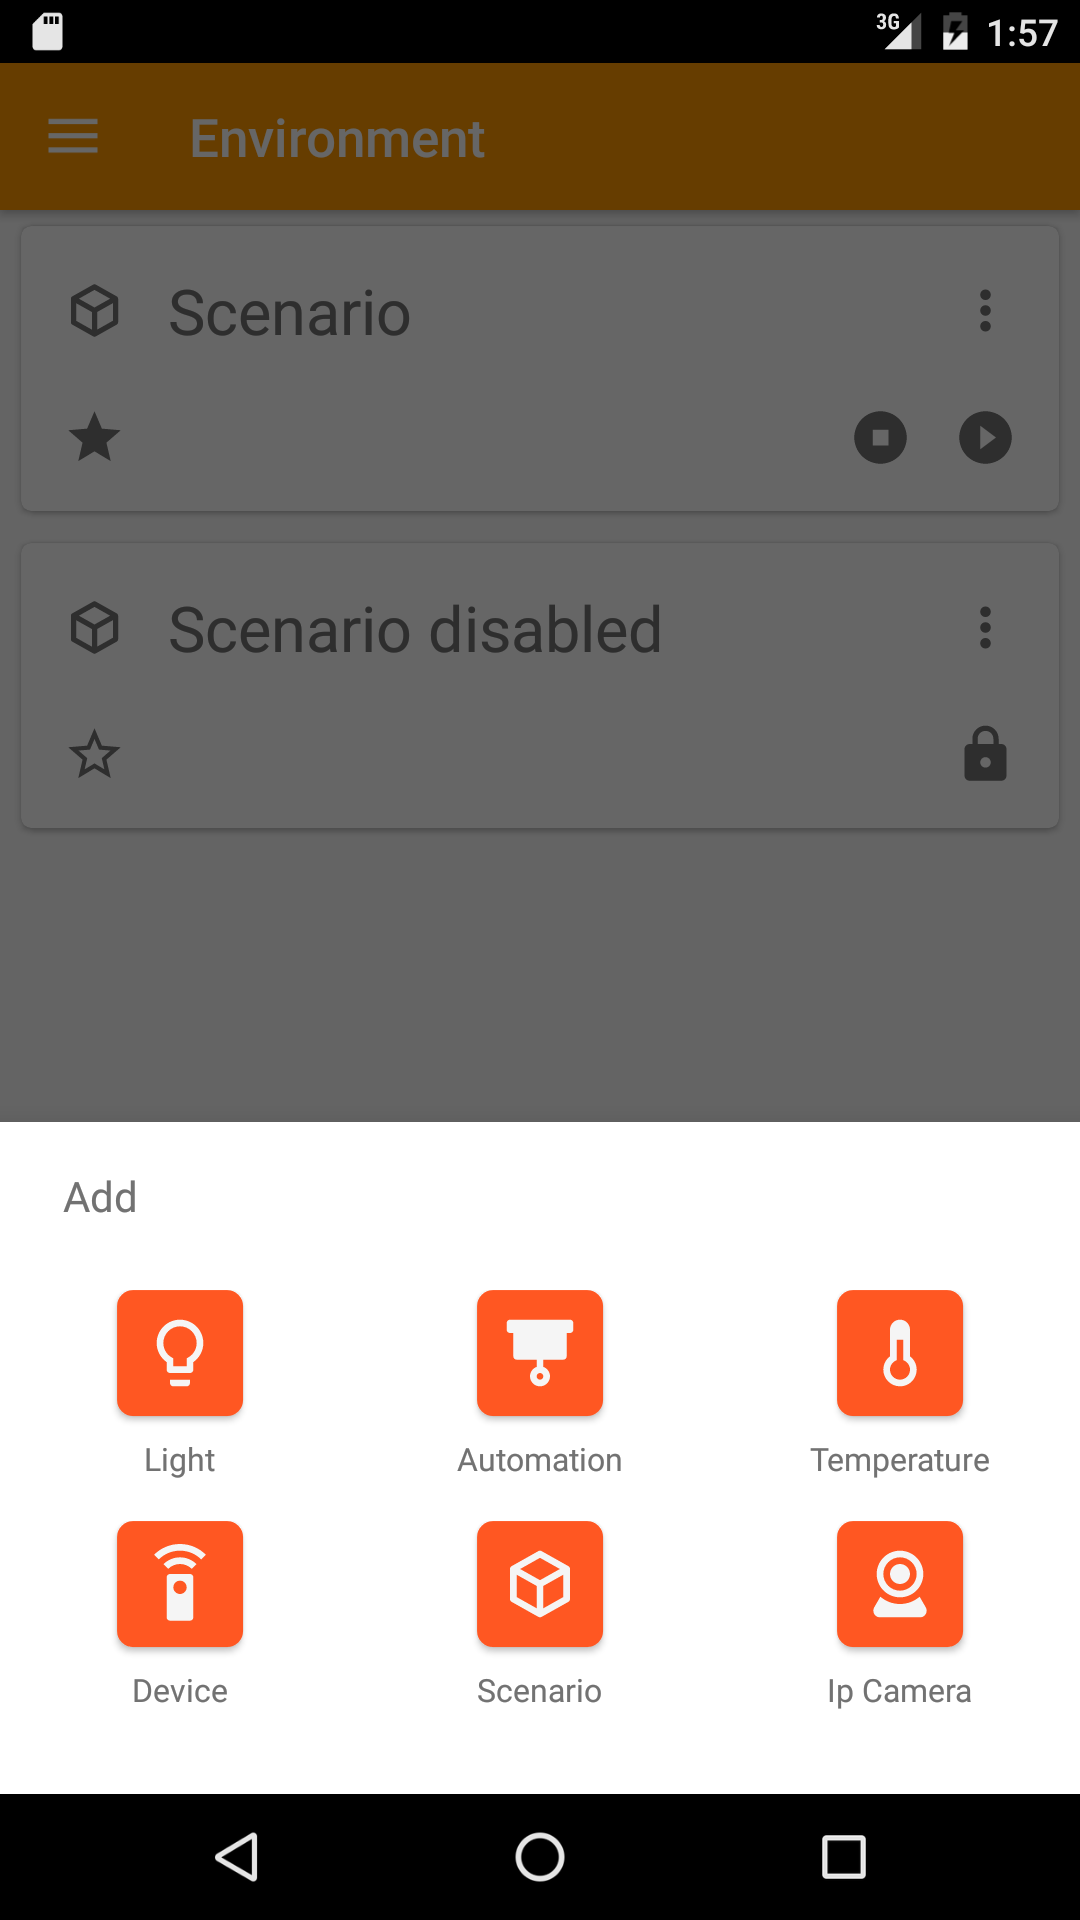
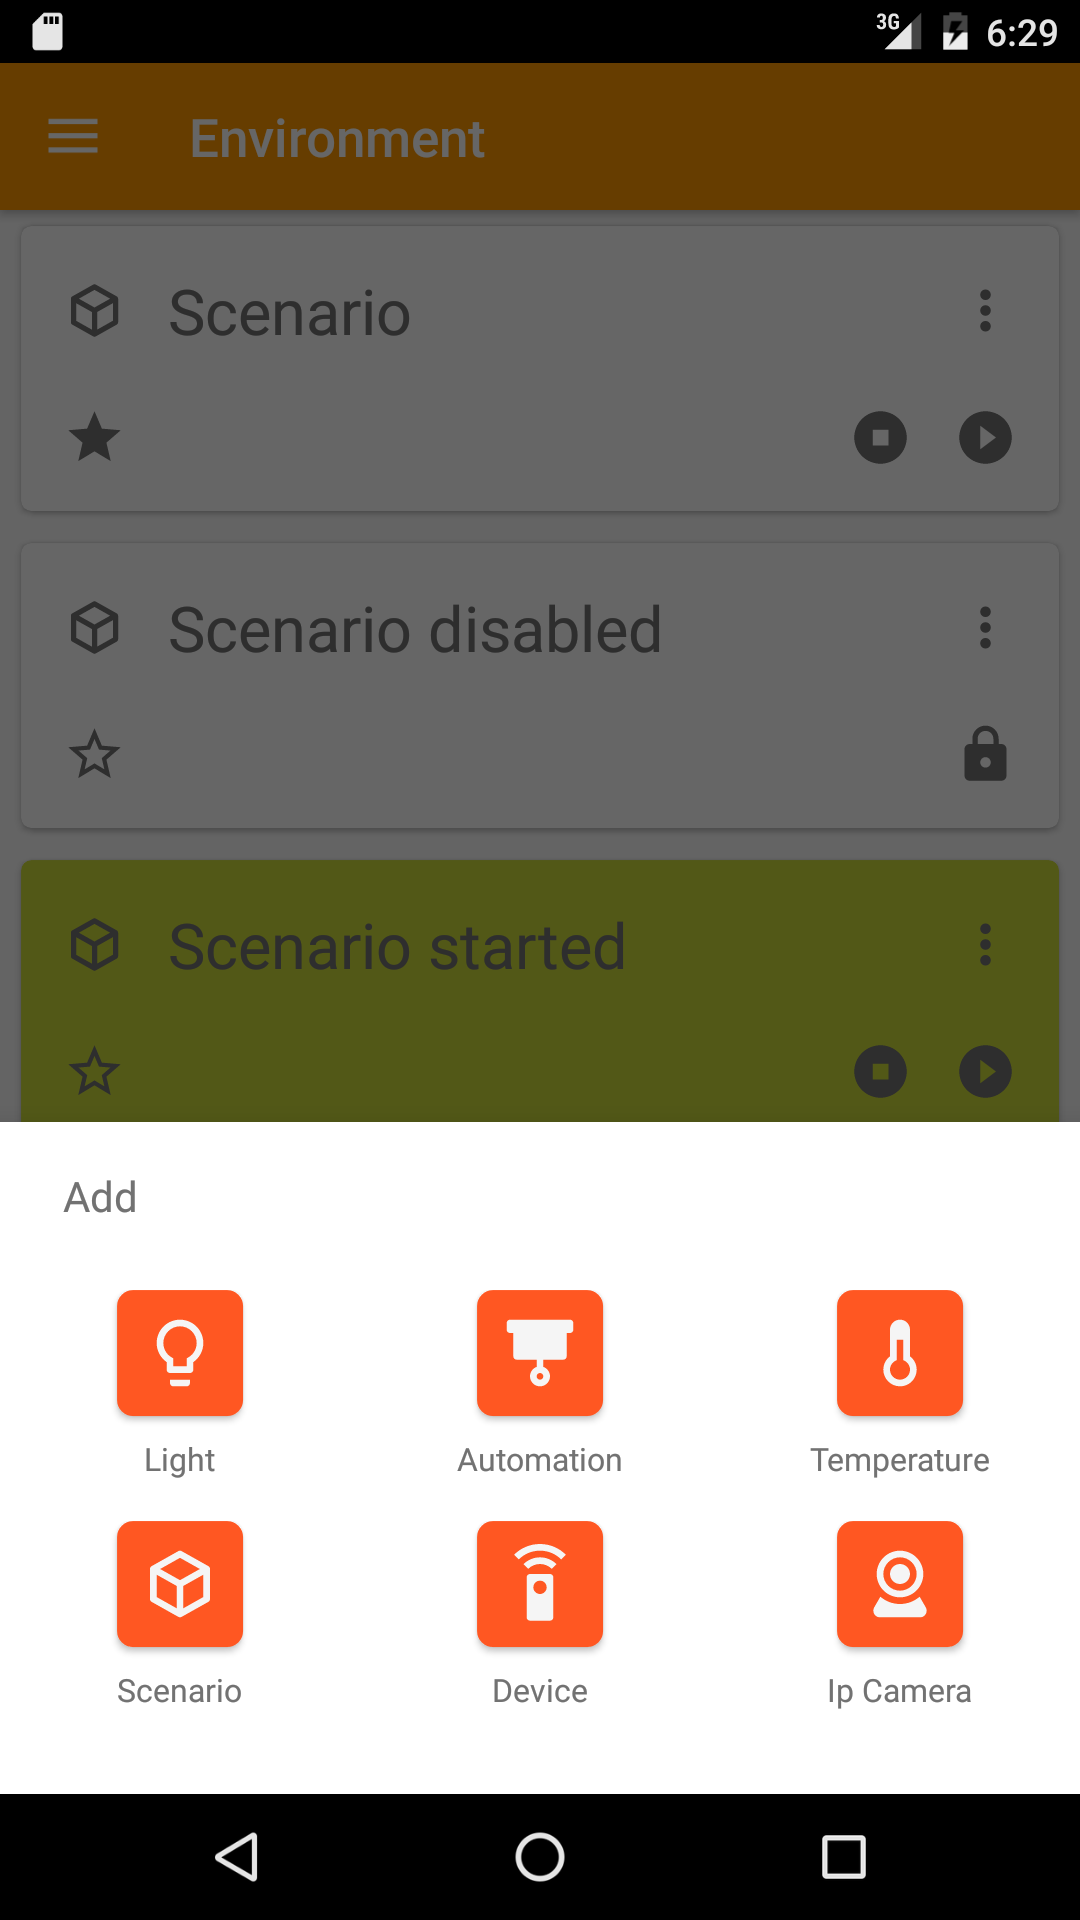
update menu order

diff --git a/app/src/test/java/com.github.openwebnet/view/MainBottomSheetDialogFragmentTest.java b/app/src/test/java/com.github.openwebnet/view/MainBottomSheetDialogFragmentTest.java
@@ -151,15 +151,15 @@ public class MainBottomSheetDialogFragmentTest {
     }
 
     @Test
-    public void onItemClick_shouldStartDeviceActivity() {
+    public void onItemClick_shouldStartScenarioActivity() {
         setupFragment();
-        expectStartActivity(3, R.string.activity_device, DeviceActivity.class);
+        expectStartActivity(3, R.string.activity_scenario, ScenarioActivity.class);
     }
 
     @Test
-    public void onItemClick_shouldStartScenarioActivity() {
+    public void onItemClick_shouldStartDeviceActivity() {
         setupFragment();
-        expectStartActivity(4, R.string.activity_scenario, ScenarioActivity.class);
+        expectStartActivity(4, R.string.activity_device, DeviceActivity.class);
     }
 
     @Test

diff --git a/app/src/main/java/com/github/openwebnet/view/MainBottomSheetDialogFragment.java b/app/src/main/java/com/github/openwebnet/view/MainBottomSheetDialogFragment.java
@@ -58,11 +58,11 @@ public class MainBottomSheetDialogFragment extends BottomSheetDialogFragment {
                 case R.id.bs_add_temperature:
                     actionNewIntent(TemperatureActivity.class);
                     break;
-                case R.id.bs_add_device:
-                    actionNewIntent(DeviceActivity.class);
-                    break;
                 case R.id.bs_add_scenario:
                     actionNewIntent(ScenarioActivity.class);
+                    break;
+                case R.id.bs_add_device:
+                    actionNewIntent(DeviceActivity.class);
                     break;
                 case R.id.bs_add_ipcam:
                     actionNewIntent(IpcamActivity.class);
